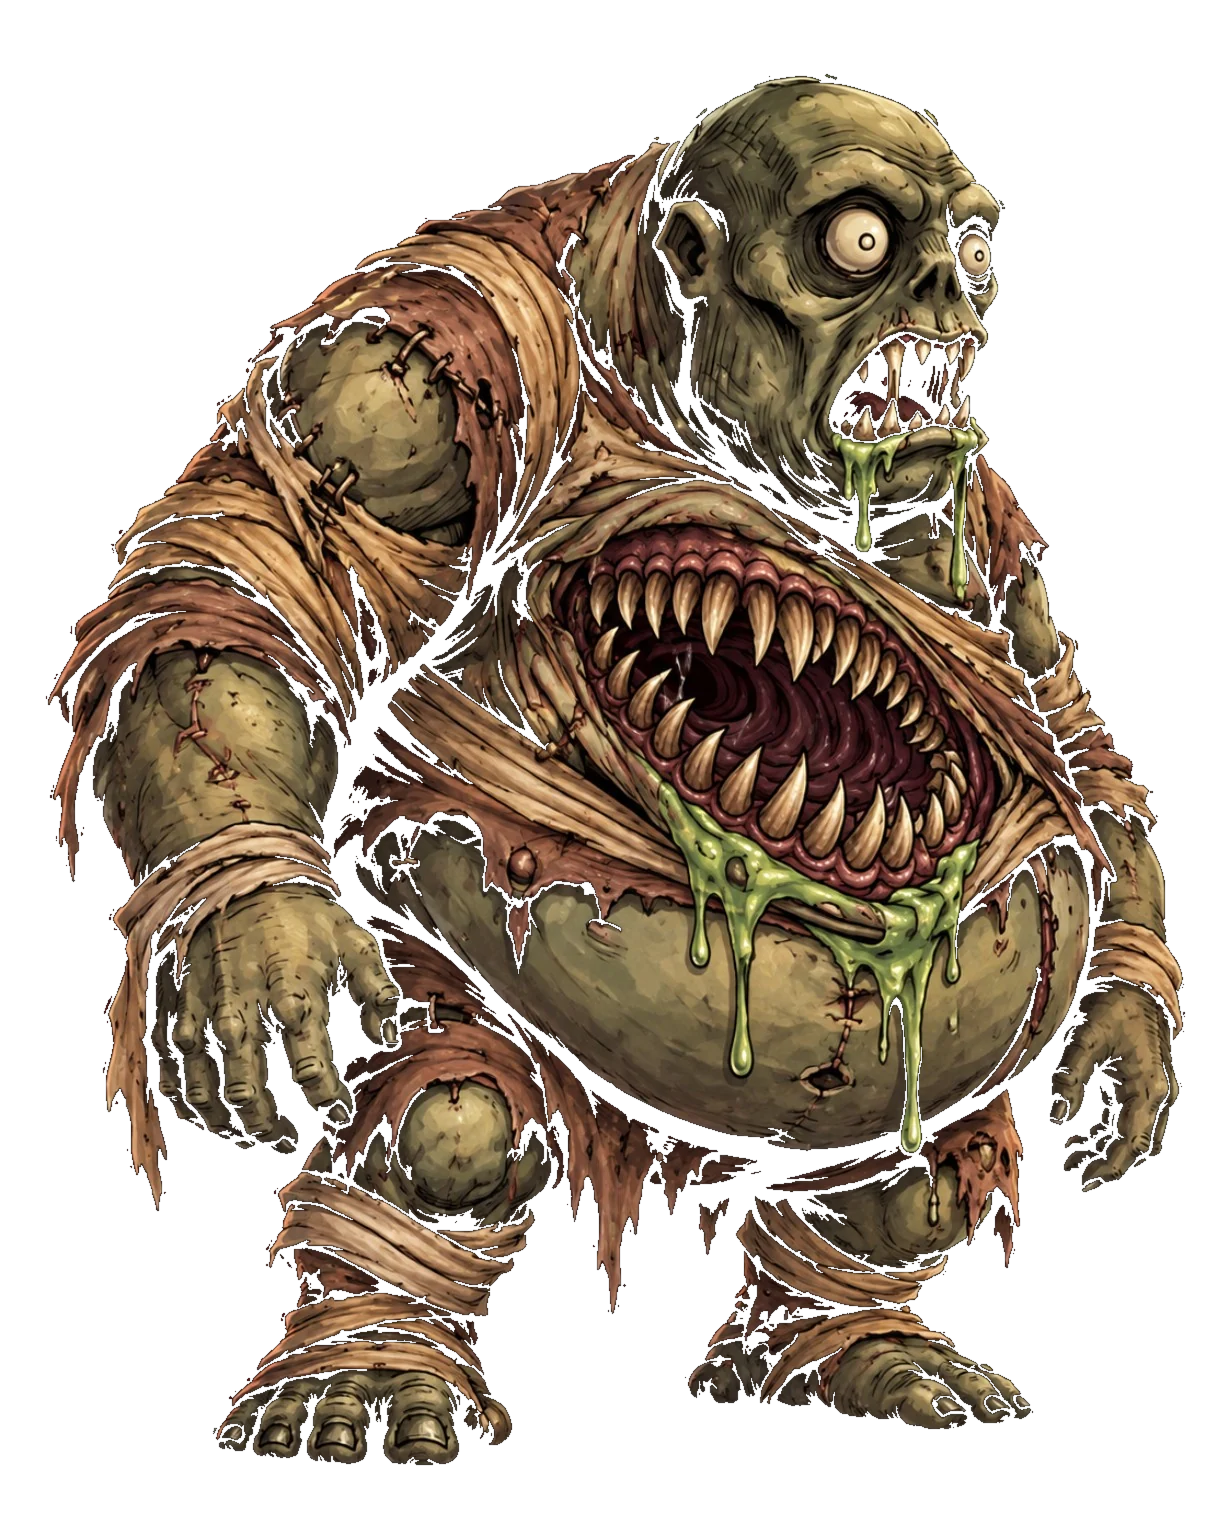
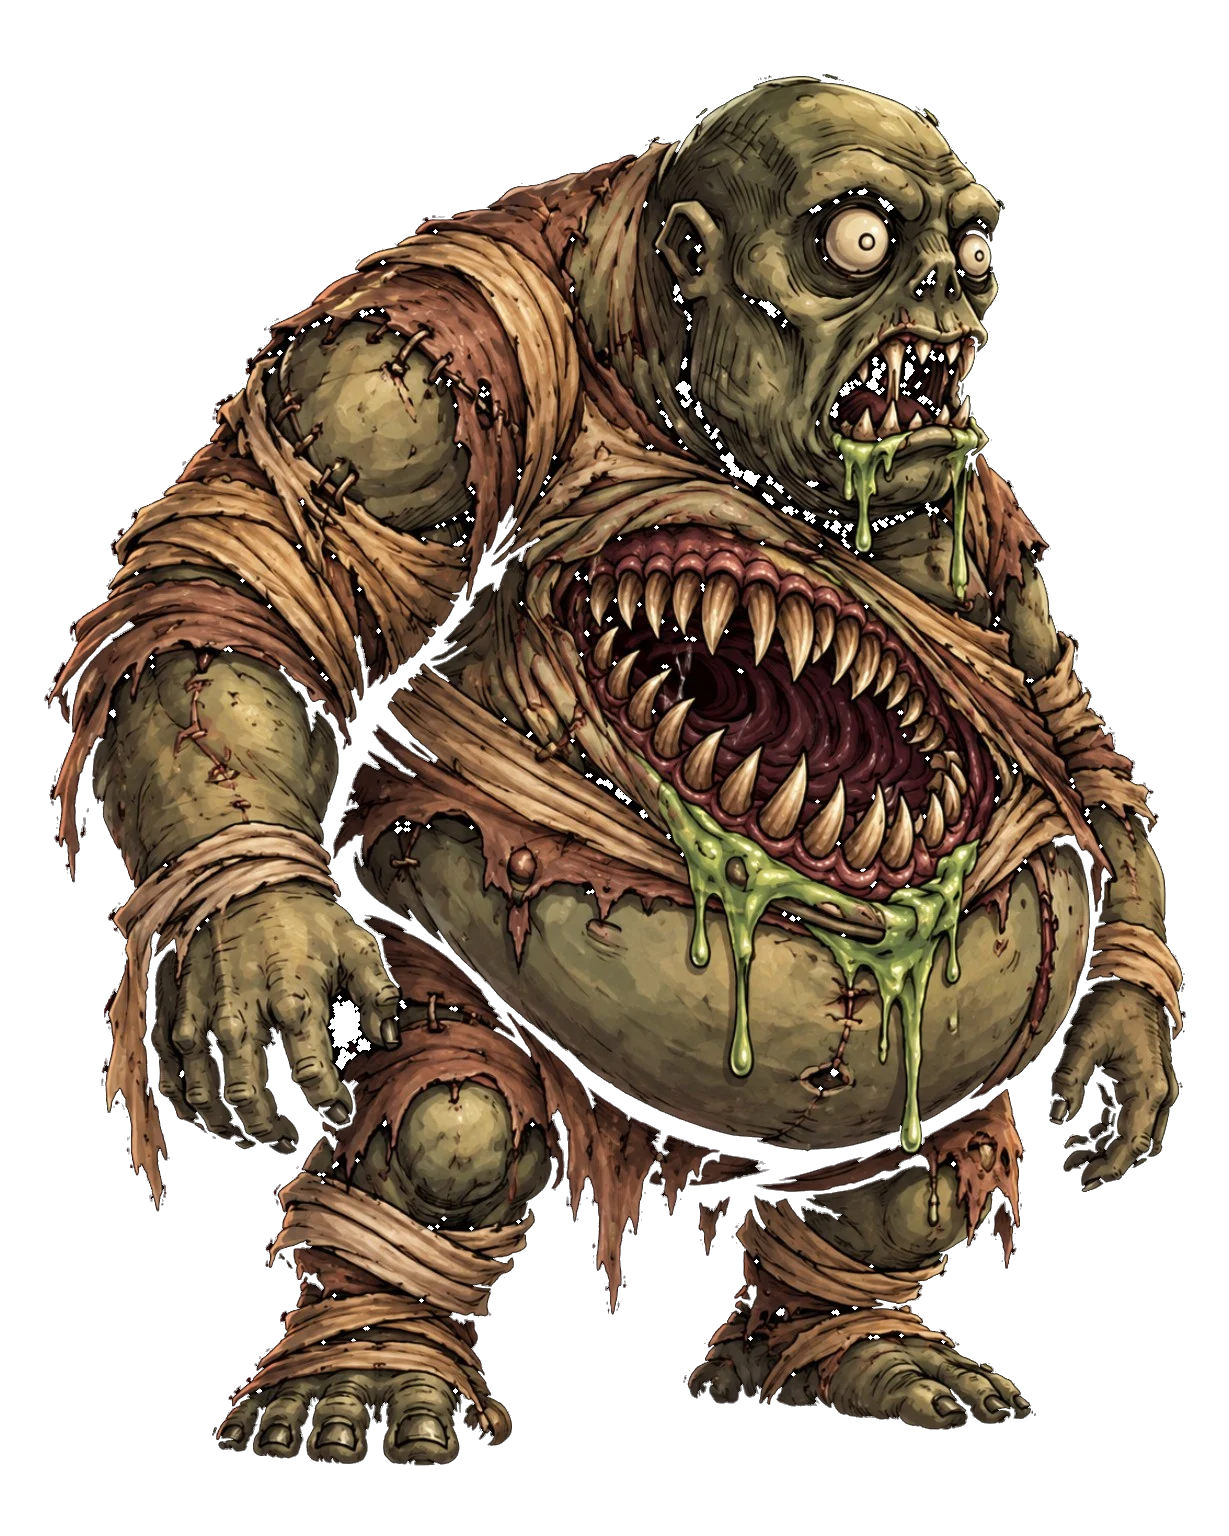
마물 13종 카드 원화 교체 및 신규 7종 레이어 카드 추가
13 verified original transparent WebP portraits; 7 additional layered card mappings; 26-card regression. Existing full-story CI is failing on main with identical story assertions and is tracked separately. PC visual review pending.

diff --git a/docs/card_art_13_upload_pending_20261020.md b/docs/card_art_13_upload_pending_20261020.md
@@ -1,0 +1,26 @@
+# Card art: 13 original WebP files uploaded to GitHub PR #207 (2026-10-20)
+
+**UPLOAD COMPLETE.** All 13 approved original WebP assets are now committed at their in-game paths on the PR branch. The image bytes were compared against their source bytes using Git blob SHA-1, and file transparency corners were checked in the supplied pack. Godot CI / visual sign-off is tracked separately.
+
+- Six existing layered portraits were replaced and seven additional portraits added.
+- All 13 approved WebPs are present at the exact resource paths below. There are 26 registered layered card monster slugs in `systems/layered_unit_card.gd`.
+- Never overwrite flattened `assets/cards/unit-card-*.png`, cards frame, combat rules, original sprites/animations.
+- GitHub Actions runs Godot headless editor import and `scripts/test_layered_unit_cards.gd` before merging; inspect final checks and do not claim real PC visual sign-off unless actually performed.
+- A backup of all 13 originals is also stored in the user's Google Drive project folder `네크로멘서 앤드 다이스/카드원화_13종_20261020`.
+- Original image upload commit: `c32a0c251e408cc0f2a07ed26d96090b3a34878b`.
+
+| Monster | Portrait path | SHA-256 of approved file |
+|---|---|---|
[13 lines of base64/hex data omitted]
